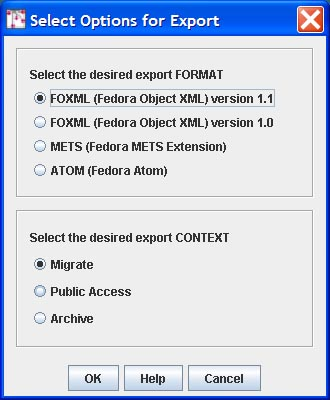
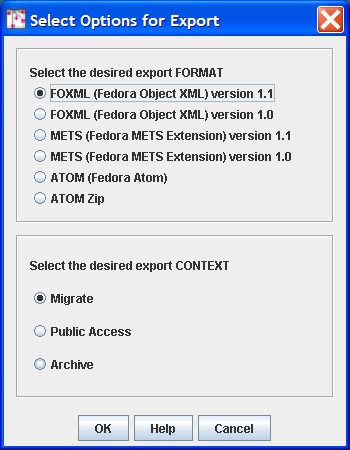
Update to Admin GUI doc based on new ingest/export formats
git-svn-id: svn://svn.code.sf.net/p/fedora-commons/code/fedora/trunk@7405 6cc838c6-e627-0410-8cce-a6db3432f928

diff --git a/src/doc/userdocs/client/admin-gui/index.html b/src/doc/userdocs/client/admin-gui/index.html
@@ -532,10 +532,16 @@
   written. Clicking <em>Open</em> causes the user to be prompted
   for an object PID.&nbsp; The PID will be used as the basis for the export file
 	(named like <em>[pid].xml)</em>.&nbsp;&nbsp; Before the export is done, you
-	must first provide a few more pieces of information.&nbsp; First, you must
-	choose the export serialization format: FOXML 1.1 (the most current FOXML format),
-	FOXML 1.0 (the FOXML format used with version 2.x Fedora repositories), METS (the Fedora
-	extension of METS), or ATOM (the Fedora extension of Atom).&nbsp;&nbsp;
+	must first provide a few more pieces of information. First, you must choose
+	the export serialization format:
+	<ul>
+	  <li>FOXML 1.1 (the most current FOXML format)</li>
+	  <li>FOXML 1.0 (the FOXML format used with pre-3.0 Fedora repositories)</li>
+	  <li>METS 1.1 (the most current Fedora extension of METS)</li>
+	  <li>METS 1.0 (the METS format used with	pre-3.0 Fedora repositories)</li>
+	  <li>ATOM (the Fedora extension of Atom)</li>
+	  <li>ATOM ZIP (an ATOM based format which packages all datastreams along with the object XML in a ZIP file)</li>
+	</ul>
 	Next you must choose the &quot;export context&quot;
 	which will create an appropriate export file for the context in which you
 	plan to use it.&nbsp;&nbsp; There are three export context types to choose
